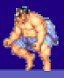
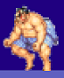
blurring - fix

Changed region(s): [[0.0, 0.8718, 0.375, 0.8974], [0.7812, 0.8718, 1.0, 0.8974], [0.5, 0.8718, 0.6562, 0.8974]]

diff --git a/games-anims/demo2/src/main/amiga.py b/games-anims/demo2/src/main/amiga.py
@@ -79,12 +79,12 @@ class Amiga(Computer):
         for honda_bmp in self.blurr_sequence:
             pygame.time.delay(2000)
             x = self.honda.x - honda_bmp.get_width() // 2
-            y = self.honda.y - honda_bmp.get_height() // 2
+            y = self.honda.y - honda_bmp.get_height() // 2 + 3
 
             self.screen.blit(honda_bmp, (x, y))
             pygame.display.update()
 
-        pygame.time.delay(3000)
+        pygame.time.delay(5000)
 
     def blur_honda_old(self):
         for multiplier in range(1, 4):
